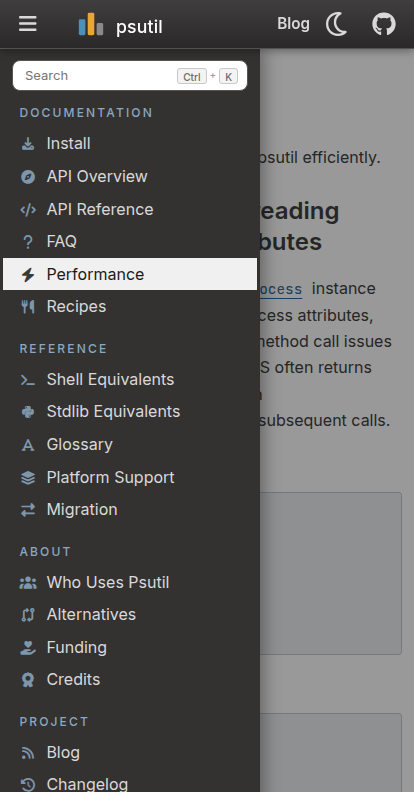
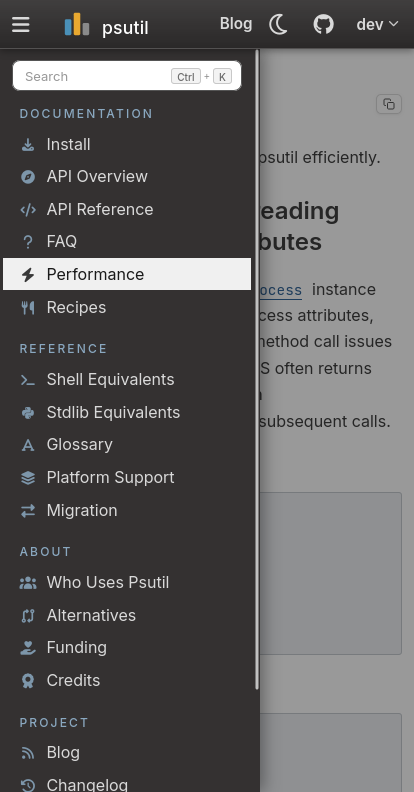
Docs: show a "copy page" button near title (#2981)
It copies the page's RsT source to your clipboard. Handy for for pasting
a whole page into an LLM. Useful to paste the whole page content into 
an LLM.

diff --git a/docs/_static/js/copy-page.js b/docs/_static/js/copy-page.js
@@ -1,0 +1,86 @@
+// Copyright (c) 2009 Giampaolo Rodola. All rights reserved.
+// Use of this source code is governed by a BSD-style license that can be
+// found in the LICENSE file.
+
+// "Copy page" button next to the h1: copies the page's RsT source, which
+// Sphinx publishes under _sources/.
+
+(function () {
+    const RESET_DELAY_MS = 2000;
+
+    const ICONS = `
+<svg class="copy-page-icon-copy" viewBox="0 0 24 24" width="12" height="12"
+     fill="none" stroke="currentColor" stroke-width="2" stroke-linecap="round"
+     stroke-linejoin="round" aria-hidden="true">
+  <rect x="9" y="9" width="13" height="13" rx="2"></rect>
+  <path d="M5 15H4a2 2 0 0 1-2-2V4a2 2 0 0 1 2-2h9a2 2 0 0 1 2 2v1"></path>
+</svg>
+<svg class="copy-page-icon-check" viewBox="0 0 24 24" width="12" height="12"
+     fill="none" stroke="currentColor" stroke-width="2.4" stroke-linecap="round"
+     stroke-linejoin="round" aria-hidden="true">
+  <path d="M4 12.5l5.5 5.5L20 6"></path>
+</svg>`;
+
+    const SKIP = ["index", "404", "blog"];
+
+    const page = document.body.dataset.page;
+    const root = document.documentElement.dataset.content_root;
+    if (!page || !root || SKIP.includes(page)) {
+        return;
+    }
+    const h1 = document.querySelector(".article h1");
+    if (!h1) {
+        return;
+    }
+
+    const url = root + "_sources/" + page + ".rst.txt";
+    const btn = document.createElement("button");
+    btn.type = "button";
+    btn.className = "copy-page";
+    btn.title = "Copy this page as reStructuredText";
+    btn.innerHTML = '<span class="copy-page-icons">' + ICONS + "</span>" +
+        '<span class="copy-page-labels">' +
+        '<span class="copy-page-label-copy">Copy page</span>' +
+        '<span class="copy-page-label-done">Copied</span>' +
+        "</span>";
+
+    let busy = false;
+
+    function flash(state) {
+        btn.classList.add(state);
+        setTimeout(() => {
+            btn.classList.remove(state);
+            busy = false;
+        }, RESET_DELAY_MS);
+    }
+
+    btn.addEventListener("click", function () {
+        if (busy) {
+            return;
+        }
+        busy = true;
+        fetch(url)
+            .then((resp) => {
+                if (!resp.ok) {
+                    throw new Error(url + " returned " + resp.status);
+                }
+                return resp.text();
+            })
+            .then((text) => navigator.clipboard.writeText(text))
+            .then(() => flash("copied"))
+            .catch((err) => {
+                console.warn("copy-page: " + err.message);
+                flash("failed");
+            });
+    });
+
+    // Only offer it when the source is actually published; generated
+    // pages (genindex, search, blog archives) have none.
+    fetch(url, { method: "HEAD" })
+        .then((resp) => {
+            if (resp.ok) {
+                h1.appendChild(btn);
+            }
+        })
+        .catch(() => {});
+})();

diff --git a/docs/_static/css/copy-page.css b/docs/_static/css/copy-page.css
@@ -1,0 +1,107 @@
+/* "Copy page" button appended to the h1 by js/copy-page.js. */
+
+.article h1:has(button.copy-page) {
+    display: flex;
+    align-items: center;
+    flex-wrap: wrap;
+}
+
+.article h1 button.copy-page {
+    margin-left: auto;
+    display: inline-flex;
+    align-items: center;
+    gap: 5px;
+    padding: 3px 8px;
+    border: 1px solid var(--border);
+    border-radius: 5px;
+    background: transparent;
+    color: var(--text-muted);
+    font-family: inherit;
+    font-size: 0.34em;
+    font-weight: 400;
+    line-height: 1.5;
+    letter-spacing: 0.01em;
+    white-space: nowrap;
+    cursor: pointer;
+    box-shadow: 0 1px 2px rgba(0, 0, 0, 0.06);
+    transition:
+        background 0.15s,
+        color 0.15s,
+        border-color 0.15s,
+        box-shadow 0.15s;
+}
+
+.article h1 button.copy-page:focus {
+    outline: none;
+}
+
+.article h1 button.copy-page:focus-visible {
+    outline: 2px solid var(--accent);
+    outline-offset: 2px;
+}
+
+.article h1 button.copy-page:hover {
+    background: var(--bg-hover);
+    border-color: var(--text-muted);
+    color: var(--text);
+    box-shadow: 0 2px 5px rgba(0, 0, 0, 0.1);
+}
+
+.copy-page-icons {
+    display: inline-grid;
+    place-items: center;
+}
+
+.copy-page-icon-copy,
+.copy-page-icon-check {
+    grid-area: 1 / 1;
+}
+
+.copy-page-icon-check {
+    visibility: hidden;
+    color: #2e9e4f;
+}
+
+.copy-page.copied .copy-page-icon-copy {
+    visibility: hidden;
+}
+
+.copy-page.copied .copy-page-icon-check {
+    visibility: visible;
+}
+
+.copy-page.failed .copy-page-icon-copy {
+    color: #c0392b;
+}
+
+.copy-page-labels {
+    display: inline-grid;
+    place-items: center start;
+}
+
+.copy-page-label-copy,
+.copy-page-label-done {
+    grid-area: 1 / 1;
+}
+
+.copy-page-label-done {
+    visibility: hidden;
+}
+
+.copy-page.copied .copy-page-label-copy {
+    visibility: hidden;
+}
+
+.copy-page.copied .copy-page-label-done {
+    visibility: visible;
+}
+
+@media (max-width: 600px) {
+    .article h1 button.copy-page .copy-page-labels {
+        display: none;
+    }
+
+    .article h1 button.copy-page {
+        padding: 3px 6px;
+    }
+}

diff --git a/docs/_templates/footer.html b/docs/_templates/footer.html
@@ -5,7 +5,7 @@
       <span><a class="footer-egg" href="{{ pathto('404') }}" title="🥚">&copy;</a> {{ copyright|e }}</span>
       {%- endif %}
       {%- if last_updated and has_rst_source %}
-      <span>{{ _('Updated: ') }}<a
+      <span>{{ _('Updated ') }}<a
         href="https://github.com/giampaolo/psutil/commits/master/docs/{{ pagename }}.rst"
         rel="noopener noreferrer" target="_blank"
         title="{{ _('View commit history on GitHub') }}">{{ last_updated|e }}</a></span>

diff --git a/docs/test_docs.py b/docs/test_docs.py
@@ -229,6 +229,12 @@ class TestHtmlBuild:
         assert (HTML_DIR / "index.html").exists()
         assert (HTML_DIR / "blog" / "index.html").exists()
 
+    def test_page_sources_are_published(self, subtests):
+        for name in ("api", "faq", "install", "blog/2025/drop-py27"):
+            with subtests.test(page=name):
+                src = HTML_DIR / "_sources" / (name + ".rst.txt")
+                assert src.is_file() is True
+
     def test_github_pages_control_files(self):
         # sphinx.ext.githubpages writes these: .nojekyll stops Jekyll
         # from dropping _static/, CNAME is derived from html_baseurl.

diff --git a/docs/changelog.rst b/docs/changelog.rst
@@ -223,7 +223,8 @@ Reorganization of process memory APIs (:gh:`2731`, :gh:`2736`, :gh:`2723`,
   updated" stamp in the footer and an icon marking external URLs.
 
 - Usability: right TOC sidebar (:gh:`2828`), a COPY button on code snippets
-  (:gh:`2761`), a "back to top" button, the ``psutil.`` prefix shown for all
+  (:gh:`2761`), a "copy page" button copying the page's RsT source
+  (:gh:`2981`), a "back to top" button, the ``psutil.`` prefix shown for all
   APIs, and search results styled as cards. Identifiers in code blocks (e.g.
   ``psutil.Process()``, ``p.cpu_percent()``) are now clickable and link to
   their API reference entry, via
@@ -243,7 +244,8 @@ Reorganization of process memory APIs (:gh:`2731`, :gh:`2736`, :gh:`2723`,
   GitHub Pages under a new domain, https://psutil.io, and URLs no longer carry
   the ``/en`` language and version prefixes, e.g. https://psutil.io/faq/
   (:gh:`2790`). It's rebuilt and deployed automatically on every push to
-  ``master`` (:gh:`2739`).
+  ``master`` (:gh:`2739`). Past releases are also served, e.g.
+  https://psutil.io/7.2/, with a version selector in the top bar (:gh:`2980`).
 
 - Misc: doc is built as part of CI (fails on error), all ``.rst`` files are
   wrapped to 79 characters via https://github.com/giampaolo/rstwrap

diff --git a/docs/about.rst b/docs/about.rst
@@ -53,6 +53,20 @@ anywhere, to override it. Your choice is saved and restored on your next visit.
       :alt: Dark mode
       :class: about-shot
 
+Documentation versions
+----------------------
+
+.. |tag| raw:: html
+
+   <i class="fa-solid fa-tag" aria-hidden="true"></i>
+
+The |tag| menu in the top-right corner switches between this development
+version of the docs, built from the master branch, and past releases.
+
+.. image:: /_static/images/about/versions.png
+   :alt: Version selector
+   :class: about-shot
+
 Clickable API references
 ------------------------
 
@@ -74,6 +88,17 @@ the prompts and the output, so you can paste it straight into a shell.
 
 .. image:: /_static/images/about/copy.png
    :alt: Copy button
+   :class: about-shot
+
+Copy page
+---------
+
+Next to the title of every documentation page there's a *Copy page* button,
+which copies the page's RsT source to your clipboard. Handy for for pasting a
+whole page into an LLM.
+
+.. image:: /_static/images/about/copypage.png
+   :alt: Copy page button
    :class: about-shot
 
 Search
